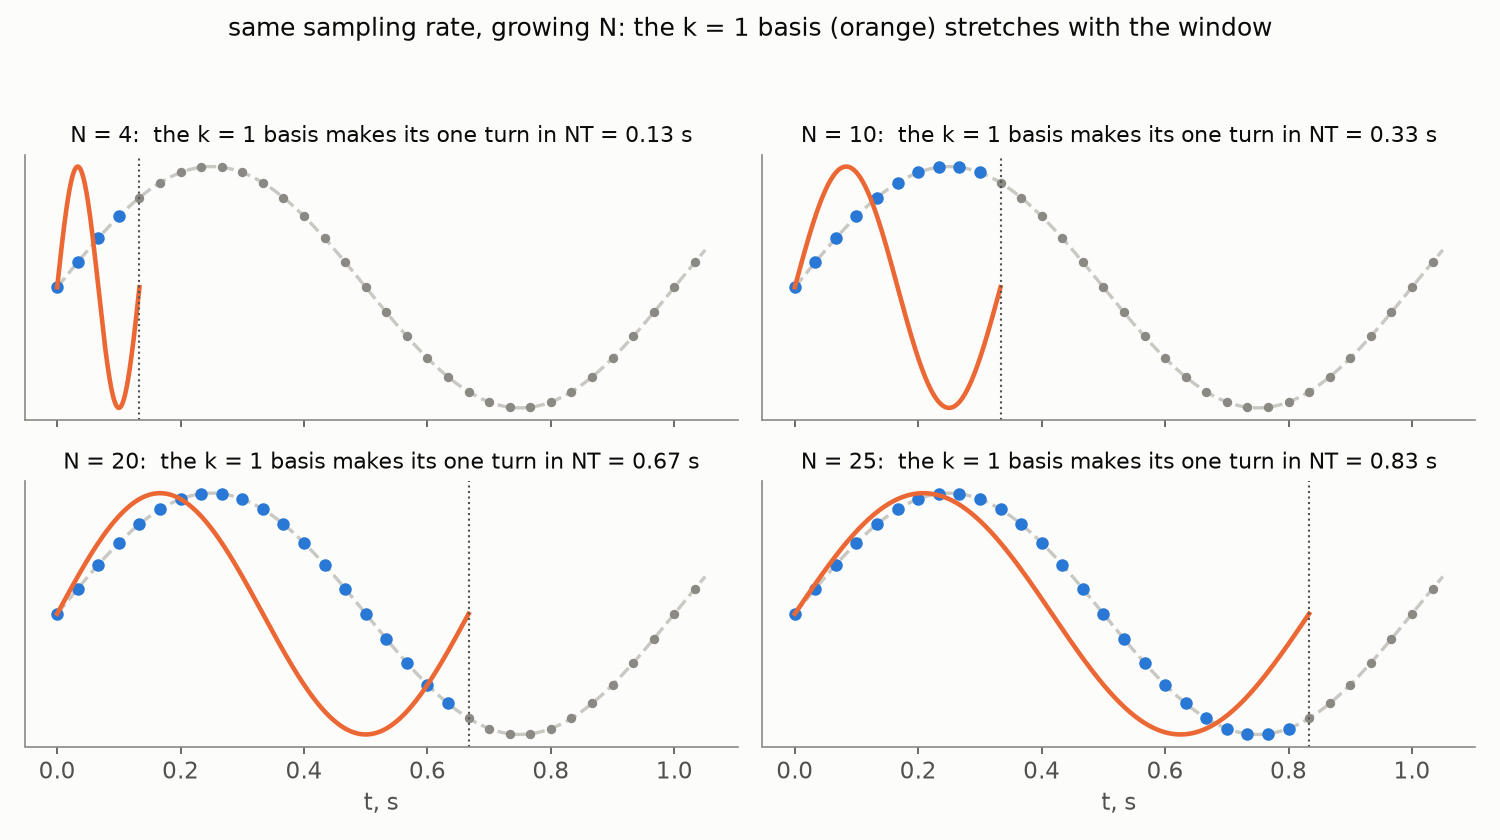
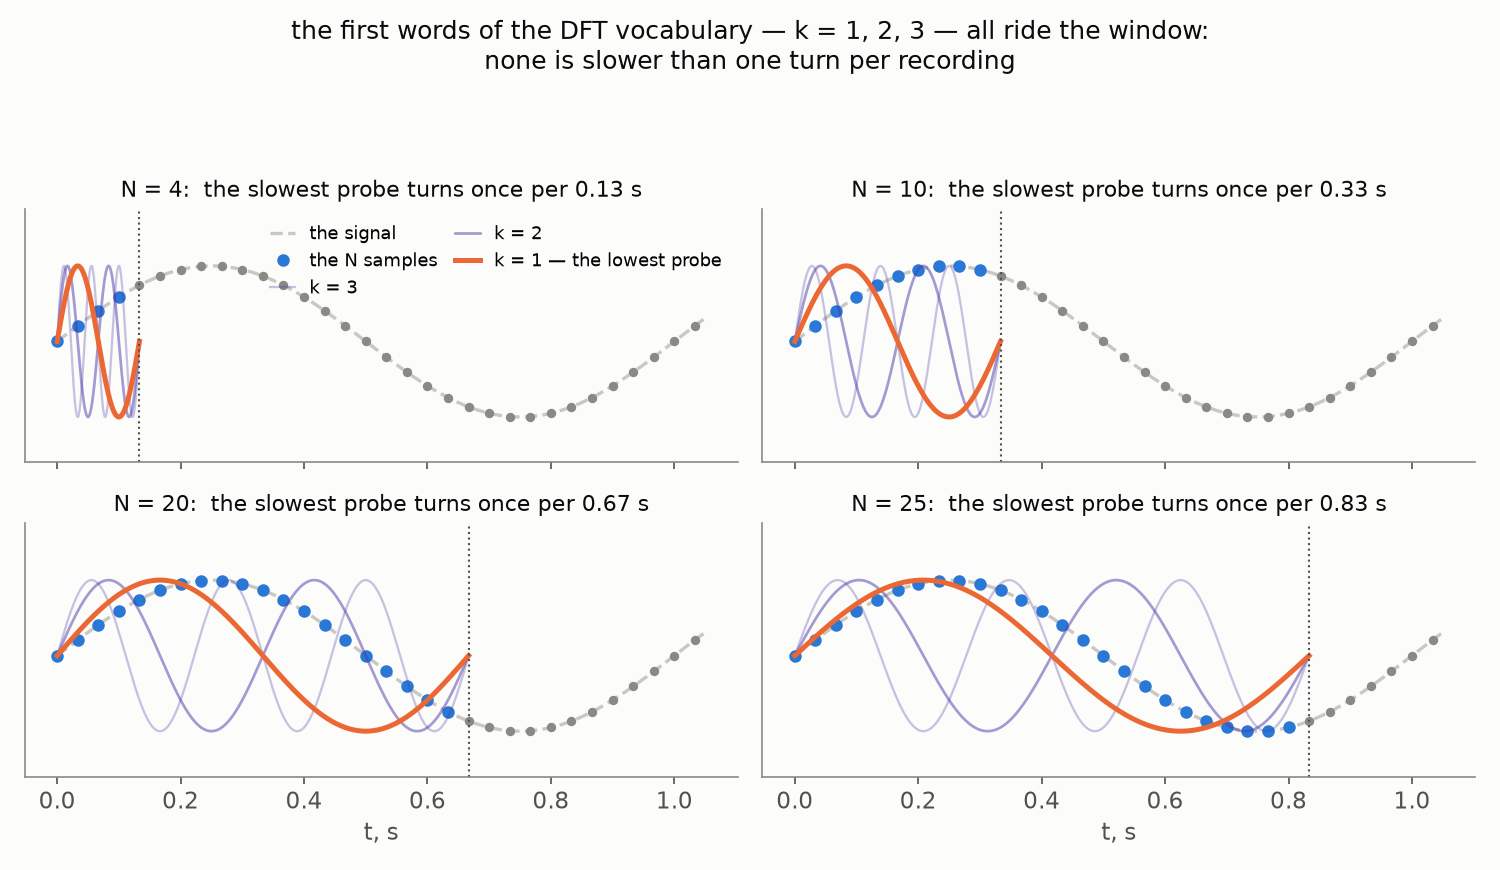
Basis figure: show k=1,2,3 probes, stress that k=1 is the lowest frequency available
Figure redesigned (faint higher harmonics, legend, per-panel captions);
moved directly after the probe-vocabulary paragraph with an explicit
reading: small N means even the slowest probe is too fast for the signal.

diff --git a/content/posts/fourier-series-to-spectrogram-part-2/index.md b/content/posts/fourier-series-to-spectrogram-part-2/index.md
@@ -55,24 +55,34 @@ per period" rule wearing its discrete clothes: the DFT offers us $N$ probe
 frequencies — zero turns, one turn, two turns, … — and reports the signal's
 resemblance to each.
 
-Turn that around, and it becomes a restriction important enough to put in
-bold: **whole numbers of turns are all the DFT has.** Its basis contains the
-constant ($k = 0$) and the oscillations that fit a whole number of times
-into the recording — nothing else. A tone that completes, say, two and a
-half turns over our $N$ samples is simply not in the vocabulary: no single
-$X[k]$ is "its" coefficient. Real recordings contain such tones all the
-time, of course, and the DFT must express them *somehow* — smearing them
-across the whole-turn vocabulary it does have. The consequences of that
-smearing (it goes by the name *spectral leakage*) will matter a great deal
-when we build the spectrogram in Part 3; for now, keep in mind that the
-DFT's world is quantized to whole turns.
+Here is what the probes look like in the flesh — the beginning of the
+vocabulary, drawn over the same sampled signal for four different recording
+lengths:
 
-Here is what a probe looks like in the flesh: the $k = 1$ basis oscillation,
-drawn in orange over the same sampled signal for four different recording
-lengths. One full turn per recording — *whatever the recording turns out to
-be*:
+![The lowest DFT probes — k = 1, 2, 3 — over a sampled signal, for four recording lengths](basis_stretch.png)
 
-![The k = 1 basis oscillation over a sampled signal, for four recording lengths](basis_stretch.png)
+In every panel the bold orange curve is the $k = 1$ probe — **the lowest
+oscillating frequency the basis has**; the fainter curves behind it are
+$k = 2$ and $k = 3$, twice and three times faster. One full turn per
+recording, *whatever the recording turns out to be* — and that is worth
+staring at while $N$ is small. At $N = 4$ even the slowest word in the
+vocabulary races through its full turn before the signal has done anything
+at all: every probe the DFT owns is far too fast for this signal, and a good
+description is simply not on offer. Only as the recording grows does the
+vocabulary reach down to where the signal actually lives — by $N = 25$ the
+lowest probe finally oscillates at almost the signal's own pace.
+
+Turn the "whole turns" rule around, and it becomes a restriction important
+enough to put in bold: **whole numbers of turns are all the DFT has.** Its
+basis contains the constant ($k = 0$) and the oscillations that fit a whole
+number of times into the recording — nothing else. A tone that completes,
+say, two and a half turns over our $N$ samples is simply not in the
+vocabulary: no single $X[k]$ is "its" coefficient. Real recordings contain
+such tones all the time, of course, and the DFT must express them *somehow*
+— smearing them across the whole-turn vocabulary it does have. The
+consequences of that smearing (it goes by the name *spectral leakage*) will
+matter a great deal when we build the spectrogram in Part 3; for now, keep
+in mind that the DFT's world is quantized to whole turns.
 
 > 💡 **The $k = 0$ probe** makes zero turns: $w_0[n] \equiv 1$, and
 > $X[0] = \sum_n x[n]$ is just $N$ times the *average* of the signal. Audio
